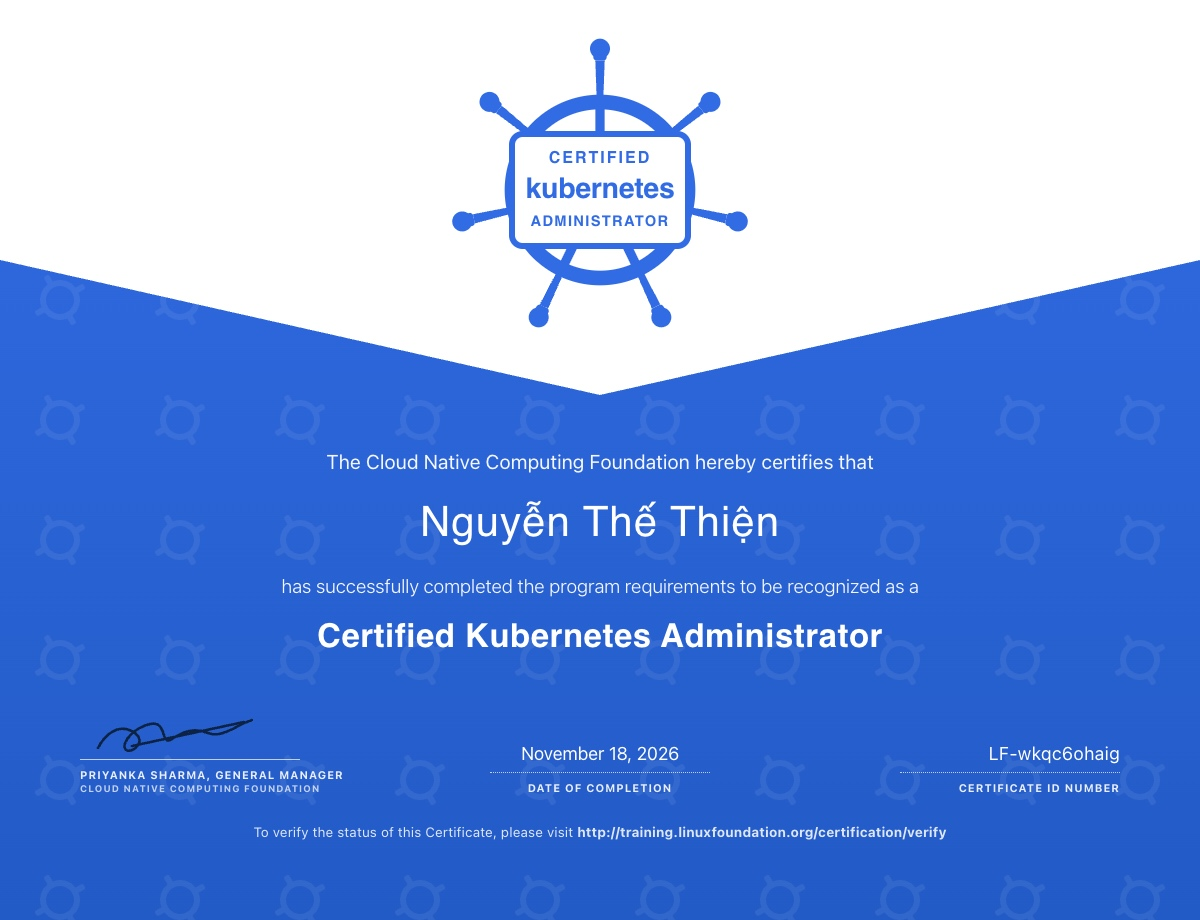
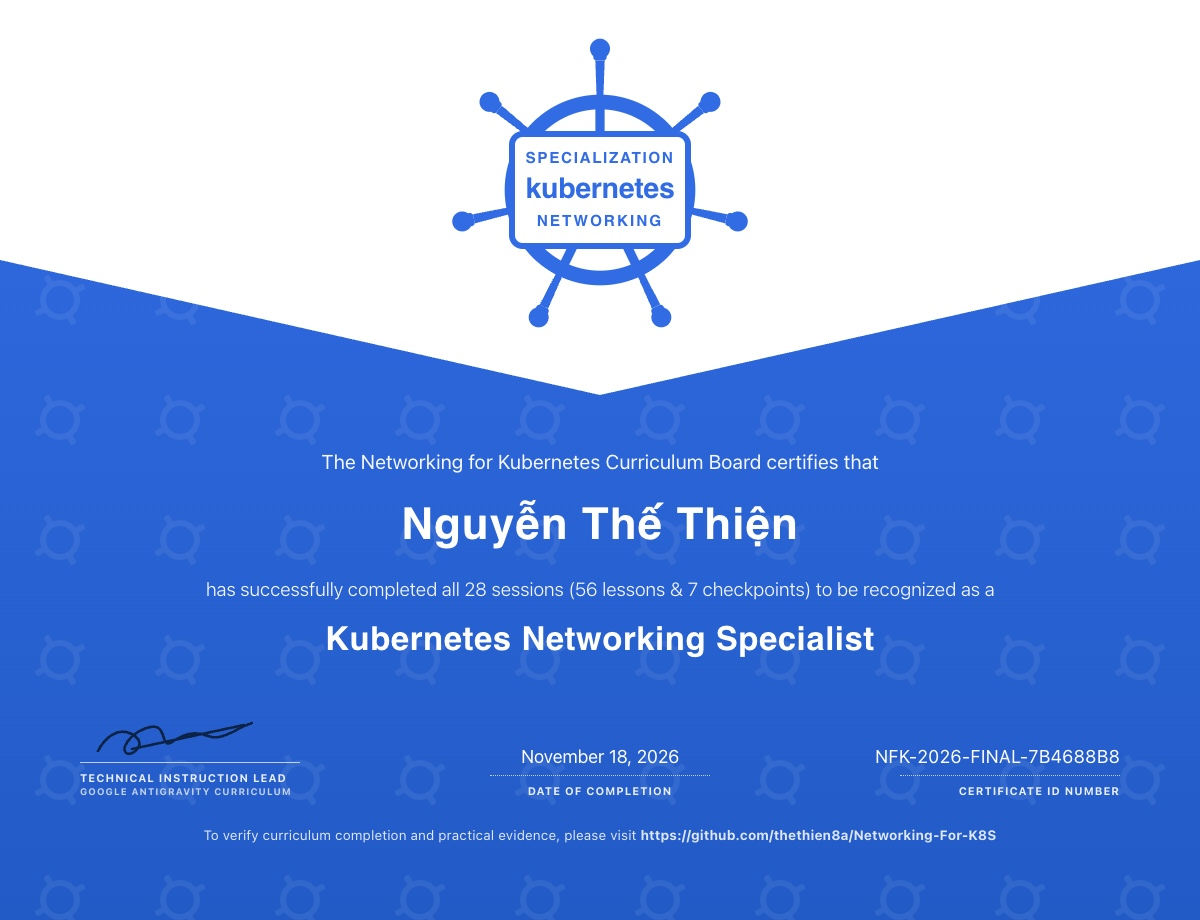
docs(cert): customize certificate content to Kubernetes Networking Specialist

diff --git a/README.md b/README.md
@@ -11,8 +11,9 @@ Lộ trình dành cho Data Engineer muốn hiểu mạng từ nền tảng đế
 </p>
 
 > **Học viên:** Nguyễn Thế Thiện  
+> **Danh hiệu:** Kubernetes Networking Specialist  
 > **Trạng thái:** Đã hoàn thành xuất sắc **56/56 bài học** và đạt toàn bộ **7/7 Cổng đánh giá năng lực độc lập (CP1 đến Final)**.  
-> **Credential ID:** `LF-wkqc6ohaig` (`NFK-2026-FINAL-7B4688B8`) · **Ngày cấp:** 18/11/2026.  
+> **Credential ID:** `NFK-2026-FINAL-7B4688B8` · **Ngày cấp:** 18/11/2026.  
 > **Chi tiết tiến độ & bằng chứng:** Xem tại [PROGRESS.md](PROGRESS.md), [notes/28a.md](notes/28a.md) và [notes/28b.md](notes/28b.md).
 
 ---
